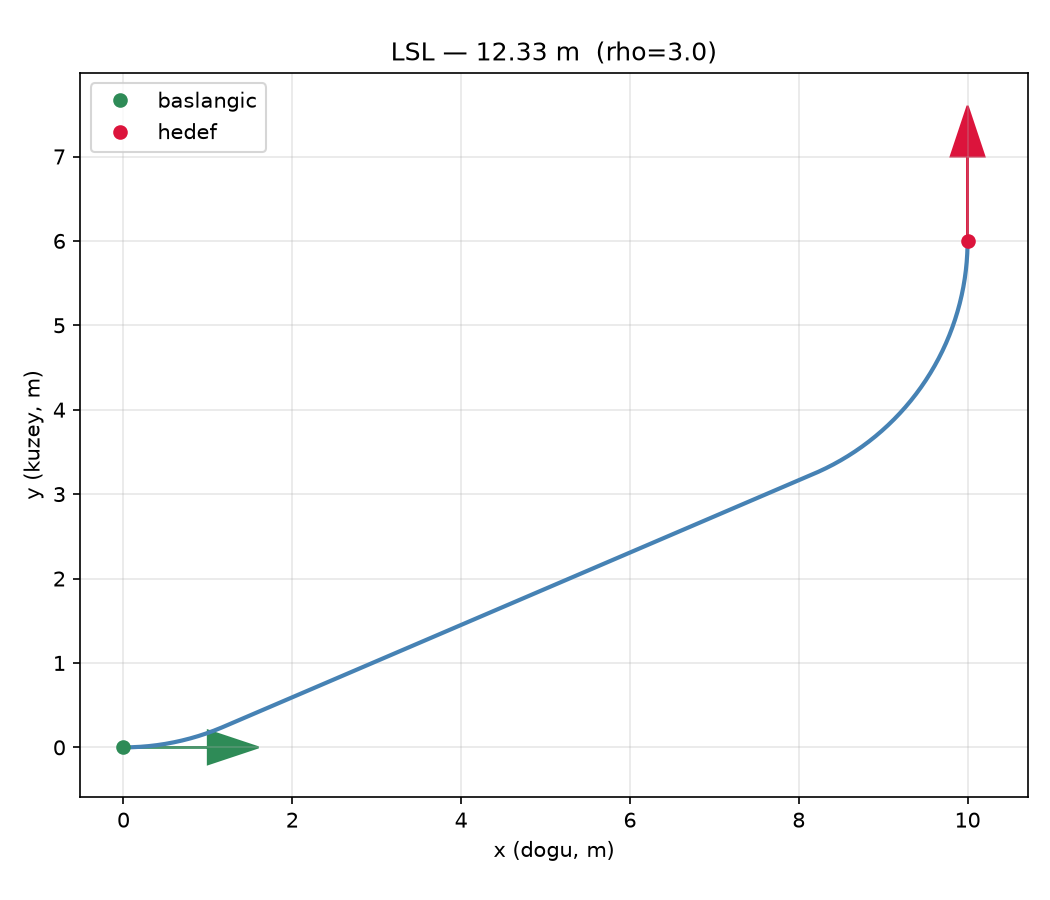
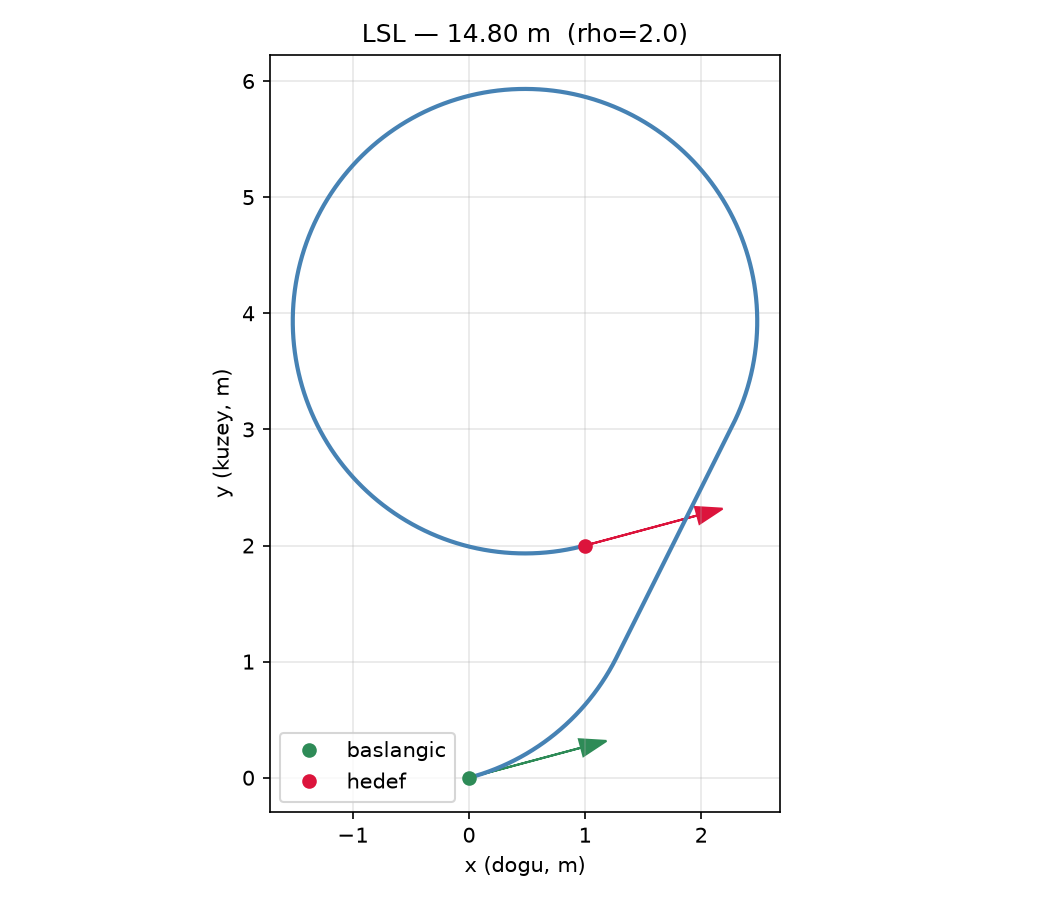
Dubins: alti kelimeyi karsilastiran 2x3 gorsel demo
plot_shortest tek yolu, plot_all_words alti adayi yan yana cizer; gecerli
olmayan kelime icin panel bos birakilir, en kisa olan kirmizi vurgulanir.
draw_pose ve draw_path ortak yardimcilar olarak ayrildi.

diff --git a/notebooks/dubins_demo.py b/notebooks/dubins_demo.py
@@ -1,55 +1,107 @@
 """Dubins yolu gorsellestirme demosu.
 
-Su an tek bir yolu (en kisasini) ciziyor. Yapilacak: alti kelimeyi de
-2x3 izgarada yan yana gostermek.
+Iki sekil uretir:
+    results/dubins_shortest.png  - sadece en kisa yol
+    results/dubins_words.png     - alti kelimenin 2x3 karsilastirmasi
 
-Calistirma:
-    ./venv/Scripts/python.exe notebooks/dubins_demo.py
+Calistirma (proje kokunden, -m sart):
+    ./venv/Scripts/python.exe -m notebooks.dubins_demo
 """
 
 import math
 
 import matplotlib.pyplot as plt
 
-from src.dubins import shortest_path
+from src.dubins import all_paths, shortest_path
 
 # Iki poz ve donus yaricapi. Poz = (x, y, yaw); yaw RADYAN.
-START = (0.0, 0.0, 0.0)              # orijinde, doguya bakiyor
-GOAL = (10.0, 6.0, math.radians(90))  # (10, 6) noktasinda, kuzeye bakiyor
-RHO = 3.0                             # minimum donus yaricapi, metre
+START = (0.0, 0.0, math.radians(155))  # mevcut (x, y, heading)
+GOAL = (7.0, 5.0, math.radians(65))   # hedef (x, y, heading)
+RHO = 2.0                             # minimum donus yaricapi, metre
+
+WORDS = ["LSL", "RSR", "LSR", "RSL", "RLR", "LRL"]
 
 
 def draw_pose(ax, pose, color, label):
     """Bir pozu ok olarak cizer: okun yeri konum, yonu yaw."""
     x, y, yaw = pose
     ax.arrow(x, y, math.cos(yaw), math.sin(yaw),
-             head_width=0.4, color=color, length_includes_head=False)
+             head_width=0.15, color=color, length_includes_head=False)
     ax.plot(x, y, "o", color=color, label=label)
 
 
-def main():
-    path = shortest_path(START, GOAL, RHO)
-
-    # sample() poz listesi verir; ciziim icin x'leri ve y'leri ayirmamiz gerek
-    points = path.sample(0.05)
+def draw_path(ax, path, color="steelblue"):
+    """Yolu ornekleyip cizer, uclarina baslangic/hedef oklarini koyar."""
+    # sample() poz listesi verir; cizim icin x'leri ve y'leri ayirmamiz gerek
+    points = path.sample(0.02)
     xs = [p[0] for p in points]
     ys = [p[1] for p in points]
 
-    fig, ax = plt.subplots(figsize=(7, 6))
-    ax.plot(xs, ys, color="steelblue", linewidth=2)
+    ax.plot(xs, ys, color=color, linewidth=2)
     draw_pose(ax, START, "seagreen", "baslangic")
     draw_pose(ax, GOAL, "crimson", "hedef")
 
+    ax.set_aspect("equal")  # bu olmadan daireler elips gorunur
+    ax.grid(True, alpha=0.3)
+
+
+def plot_shortest():
+    """En kisa yolu tek bir grafikte cizer."""
+    path = shortest_path(START, GOAL, RHO)
+
+    _, ax = plt.subplots(figsize=(7, 6))
+    draw_path(ax, path)
     ax.set_title(f"{path.word} — {path.length:.2f} m  (rho={RHO})")
     ax.set_xlabel("x (dogu, m)")
     ax.set_ylabel("y (kuzey, m)")
-    ax.set_aspect("equal")  # bu olmadan daireler elips gorunur
-    ax.grid(True, alpha=0.3)
     ax.legend()
 
     plt.tight_layout()
     plt.savefig("results/dubins_shortest.png", dpi=150)
+    plt.close()
     print(f"kaydedildi: results/dubins_shortest.png  ({path.word}, {path.length:.2f} m)")
+
+
+def plot_all_words():
+    """Alti kelimeyi 2x3 izgarada karsilastirir; en kisasi vurgulanir."""
+    # Listeyi kelimeye gore erisilebilir sozluge cevir. Gecersiz kelimeler
+    # all_paths'ten hic donmedigi icin sozlukte de olmaz.
+    paths = {p.word: p for p in all_paths(START, GOAL, RHO)}
+    best = shortest_path(START, GOAL, RHO)
+
+    fig, axes = plt.subplots(2, 3, figsize=(15, 9))
+    axes = axes.flatten()  # 2x3 tabloyu axes[0]..axes[5] duz dizisine cevirir
+
+    for ax, word in zip(axes, WORDS):
+        path = paths.get(word)  # yoksa None; paths[word] olsaydi KeyError
+        if path is None:
+            ax.text(0.5, 0.5, "gecersiz", ha="center", va="center",
+                    transform=ax.transAxes, color="gray", fontsize=14)
+            ax.set_title(word, color="gray")
+            ax.set_xticks([])
+            ax.set_yticks([])
+            continue
+
+        is_best = word == best.word
+        draw_path(ax, path, color="crimson" if is_best else "steelblue")
+        ax.set_title(f"{word} — {path.length:.2f} m",
+                     color="crimson" if is_best else "black",
+                     fontweight="bold" if is_best else "normal")
+
+    fig.suptitle(
+        f"Dubins kelimeleri  |  start=({START[0]:.1f}, {START[1]:.1f})  "
+        f"goal=({GOAL[0]:.1f}, {GOAL[1]:.1f})  rho={RHO}",
+        fontsize=13)
+    plt.tight_layout()
+    plt.savefig("results/dubins_words.png", dpi=150)
+    plt.close()
+    print(f"kaydedildi: results/dubins_words.png  "
+          f"({len(paths)}/6 kelime gecerli, en kisa: {best.word})")
+
+
+def main():
+    plot_shortest()
+    plot_all_words()
 
 
 if __name__ == "__main__":
